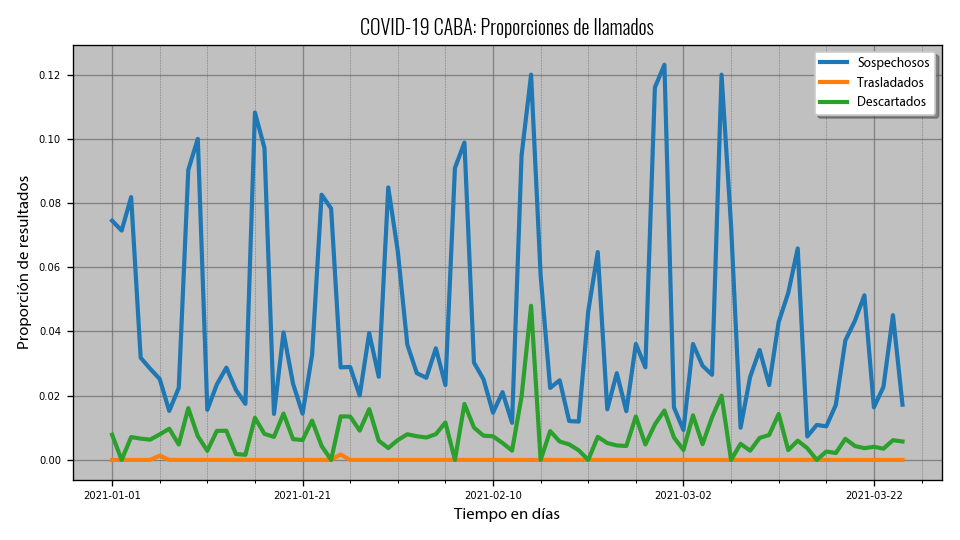
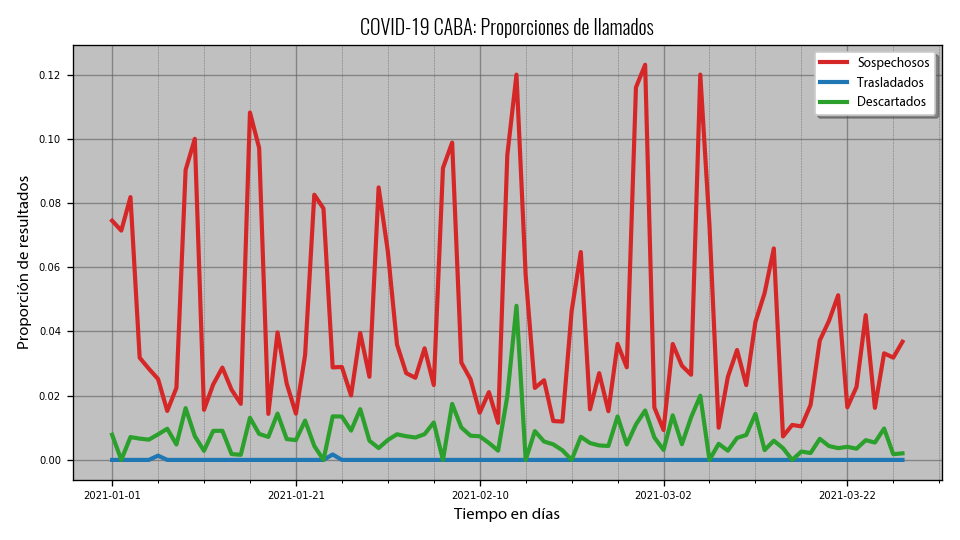
Updating charts...

diff --git a/p_emergencycalls.py b/p_emergencycalls.py
@@ -13,33 +13,39 @@ def plot_total_calls():
 	print("-- Plotting total calls...", end="\n")
 	f = figure(num=None, figsize=(cc.w, cc.h), dpi=cc.image_resolution, facecolor=cc.background_figure, edgecolor='k')
 	chart_texts = get_calls_ratios_texts("total_calls");
-	calls_data["COVID_LLAMADOS"][cc.start_date:].plot(kind='line', label=chart_texts[3], linewidth=2.5)
-	calls_data["CASOS_SOSPECHOSOS"][cc.start_date:].plot(kind='line', label=chart_texts[4], linewidth=2.5)
-	calls_data["CASOS_DERIVADOS"][cc.start_date:].plot(kind='line', label=chart_texts[5], linewidth=2.5)
+	total = calls_data["COVID_LLAMADOS"][cc.start_date:].plot(kind='line', label=chart_texts[3], color=cc.colors[0], linewidth=2.5)
+	cc.x_grid_and_ticks(1, 3)
 	cc.build_texts(chart_texts[0], chart_texts[1], chart_texts[2])
-	cc.build_legend()
-	cc.grid_and_ticks(1, 3)
+	other = total.twinx()
+	other = calls_data["CASOS_SOSPECHOSOS"][cc.start_date:].plot(kind='line', label=chart_texts[4], color=cc.colors[1], linewidth=2.5)
+	other = calls_data["CASOS_DERIVADOS"][cc.start_date:].plot(kind='line', label=chart_texts[5], color=cc.colors[2], linewidth=2.5)
+	cc.x_grid_and_ticks(1, 3)
+	cc.build_texts(chart_texts[0], chart_texts[1], chart_texts[2])
+	cc.build_legends(total, other)
 	cc.save_plot("totalcalls", f, "C")
 
 def plot_total_calls_avg():
 	print("-- Plotting total calls...", end="\n")
 	f = figure(num=None, figsize=(cc.w, cc.h), dpi=cc.image_resolution, facecolor=cc.background_figure, edgecolor='k')
 	chart_texts = get_calls_ratios_texts("total_calls");
-	calls_data["LLAMADOSAVG"][cc.start_date:].plot(kind='line', label=chart_texts[3], linewidth=2.5)
-	calls_data["SOSPECHOSOSAVG"][cc.start_date:].plot(kind='line', label=chart_texts[4], linewidth=2.5)
-	calls_data["DERIVADOSAVG"][cc.start_date:].plot(kind='line', label=chart_texts[5], linewidth=2.5)
+	total = calls_data["LLAMADOSAVG"][cc.start_date:].plot(kind='line', label=chart_texts[3], color=cc.colors[0], linewidth=2.5)
+	cc.x_grid_and_ticks(1, 3)
 	cc.build_texts(chart_texts[0], chart_texts[1], chart_texts[2])
-	cc.build_legend()
-	cc.grid_and_ticks(1, 3)
+	other = total.twinx()
+	other = calls_data["SOSPECHOSOSAVG"][cc.start_date:].plot(kind='line', label=chart_texts[4], color=cc.colors[1], linewidth=2.5)
+	other = calls_data["DERIVADOSAVG"][cc.start_date:].plot(kind='line', label=chart_texts[5], color=cc.colors[2], linewidth=2.5)
+	cc.x_grid_and_ticks(1, 3)
+	cc.build_texts(chart_texts[0], chart_texts[1], chart_texts[2])
+	cc.build_legends(total, other)
 	cc.save_plot("totalcallsavg", f, "C")
 
 def plot_calls_ratios():
 	print("-- Plotting calls ratios...", end="\n")
 	f = figure(num=None, figsize=(cc.w, cc.h), dpi=cc.image_resolution, facecolor=cc.background_figure, edgecolor='k')
 	chart_texts = get_calls_ratios_texts("calls_ratios");
-	calls_data["%SOSPECHOSOS"][cc.start_date:].plot(kind='line', label=chart_texts[3], linewidth=2.5)
-	calls_data["%TRASLADADOS"][cc.start_date:].plot(kind='line', label=chart_texts[4], linewidth=2.5)
-	calls_data["%DERIVADOS"][cc.start_date:].plot(kind='line', label=chart_texts[5], linewidth=2.5)
+	calls_data["%SOSPECHOSOS"][cc.start_date:].plot(kind='line', label=chart_texts[3], color=cc.colors[0], linewidth=2.5)
+	calls_data["%TRASLADADOS"][cc.start_date:].plot(kind='line', label=chart_texts[4], color=cc.colors[1], linewidth=2.5)
+	calls_data["%DERIVADOS"][cc.start_date:].plot(kind='line', label=chart_texts[5], color=cc.colors[2], linewidth=2.5)
 	cc.build_texts(chart_texts[0], chart_texts[1], chart_texts[2])
 	cc.build_legend()
 	cc.grid_and_ticks(1, 3)
@@ -49,9 +55,9 @@ def plot_calls_ratios_avg():
 	print("-- Plotting calls ratios...", end="\n")
 	f = figure(num=None, figsize=(cc.w, cc.h), dpi=cc.image_resolution, facecolor=cc.background_figure, edgecolor='k')
 	chart_texts = get_calls_ratios_texts("calls_ratios");
-	calls_data["%SOSPECHOSOSAVG"][cc.start_date:].plot(kind='line', label=chart_texts[3], linewidth=2.5)
-	calls_data["%TRASLADADOSAVG"][cc.start_date:].plot(kind='line', label=chart_texts[4], linewidth=2.5)
-	calls_data["%DERIVADOSAVG"][cc.start_date:].plot(kind='line', label=chart_texts[5], linewidth=2.5)
+	calls_data["%SOSPECHOSOSAVG"][cc.start_date:].plot(kind='line', label=chart_texts[3], color=cc.colors[0], linewidth=2.5)
+	calls_data["%TRASLADADOSAVG"][cc.start_date:].plot(kind='line', label=chart_texts[4], color=cc.colors[1], linewidth=2.5)
+	calls_data["%DERIVADOSAVG"][cc.start_date:].plot(kind='line', label=chart_texts[5], color=cc.colors[2], linewidth=2.5)
 	cc.build_texts(chart_texts[0], chart_texts[1], chart_texts[2])
 	cc.build_legend()
 	cc.grid_and_ticks(1, 3)

diff --git a/p_vaccinations.py b/p_vaccinations.py
@@ -11,9 +11,9 @@ def plot_total_vac_by_sex():
 	print("-- Plotting total vaccinations by sex...", end="\n")
 	f = figure(num=None, figsize=(cc.w, cc.h), dpi=cc.image_resolution, facecolor=cc.background_figure, edgecolor='k')
 	chart_texts = get_chart_texts("total_by_sex")
-	cum_age_sex["TotalM"][cc.start_date:].plot(kind='line', label=chart_texts[3], linewidth=2.5)
-	cum_age_sex["TotalF"][cc.start_date:].plot(kind='line', label=chart_texts[4], linewidth=2.5)
-	cum_age_sex["Total"][cc.start_date:].plot(kind='line', label=chart_texts[5], linewidth=2.5)
+	cum_age_sex["TotalM"][cc.start_date:].plot(kind='line', label=chart_texts[3], color=cc.colors[0], linewidth=2.5)
+	cum_age_sex["TotalF"][cc.start_date:].plot(kind='line', label=chart_texts[4], color=cc.colors[1], linewidth=2.5)
+	cum_age_sex["Total"][cc.start_date:].plot(kind='line', label=chart_texts[5], color=cc.colors[2], linewidth=2.5)
 	cc.build_texts(chart_texts[0], chart_texts[1], chart_texts[2])
 	cc.build_legend()
 	cc.grid_and_ticks(1, 3)
@@ -25,8 +25,8 @@ def plot_total_vac_by_dose():
 	print("-- Plotting total vaccinations by dose...", end="\n")
 	f = figure(num=None, figsize=(cc.w, cc.h), dpi=cc.image_resolution, facecolor=cc.background_figure, edgecolor='k')
 	chart_texts = get_chart_texts("total_by_dose")
-	cum_age_dose["TotalA"][cc.start_date:].plot(kind='line', label=chart_texts[3], linewidth=2.5)
-	cum_age_dose["TotalB"][cc.start_date:].plot(kind='line', label=chart_texts[4], linewidth=2.5)
+	cum_age_dose["TotalA"][cc.start_date:].plot(kind='line', label=chart_texts[3], color=cc.colors[0], linewidth=2.5)
+	cum_age_dose["TotalB"][cc.start_date:].plot(kind='line', label=chart_texts[4], color=cc.colors[1], linewidth=2.5)
 	cc.build_texts(chart_texts[0], chart_texts[1], chart_texts[2])
 	cc.build_legend()
 	cc.grid_and_ticks(1, 3)
@@ -39,7 +39,7 @@ def plot_doses_by_age():
 	f = figure(num=None, figsize=(cc.w, cc.h), dpi=cc.image_resolution, facecolor=cc.background_figure, edgecolor='k')
 	chart_texts = get_chart_texts("by_age")
 	for i in range(len(age_groups)):
-		age_dose[age_groups[i]][cc.start_date:].plot(kind='line', label=age_groups[i], linewidth=2.5)
+		age_dose[age_groups[i]][cc.start_date:].plot(kind='line', label=age_groups[i], color=cc.colors[i], linewidth=2.5)
 	cc.build_texts(chart_texts[0], chart_texts[1], chart_texts[2])
 	cc.build_legend()
 	cc.grid_and_ticks(1, 3)
@@ -52,7 +52,7 @@ def plot_doses_by_age_avg():
 	f = figure(num=None, figsize=(cc.w, cc.h), dpi=cc.image_resolution, facecolor=cc.background_figure, edgecolor='k')
 	chart_texts = get_chart_texts("by_age_avg")
 	for i in range(len(age_groups)):
-		age_dose_avg[age_groups[i]][cc.start_date:].plot(kind='line', label=age_groups[i], linewidth=2.5)
+		age_dose_avg[age_groups[i]][cc.start_date:].plot(kind='line', label=age_groups[i], color=cc.colors[i], linewidth=2.5)
 	cc.build_texts(chart_texts[0], chart_texts[1], chart_texts[2])
 	cc.build_legend()
 	cc.grid_and_ticks(1, 3)
@@ -65,7 +65,7 @@ def plot_doses_by_vac_avg():
 	f = figure(num=None, figsize=(cc.w, cc.h), dpi=cc.image_resolution, facecolor=cc.background_figure, edgecolor='k')
 	chart_texts = get_chart_texts("by_vac_avg")
 	for i in range(len(vaccines)):
-		vac_dose_avg[vaccines[i]][cc.start_date:].plot(kind='line', label=vaccines[i], linewidth=2.5)
+		vac_dose_avg[vaccines[i]][cc.start_date:].plot(kind='line', label=vaccines[i], color=cc.colors[i], linewidth=2.5)
 	cc.build_texts(chart_texts[0], chart_texts[1], chart_texts[2])
 	cc.build_legend()
 	cc.grid_and_ticks(1, 3)

diff --git a/chart_config.py b/chart_config.py
@@ -13,6 +13,8 @@ background_plot = "silver" #Default background color for charts
 background_figure = "white" #Default background color for figures
 major_grid_color = "dimgrey" #Default colors for grids...
 minor_grid_color = "dimgray"
+colors = ["tab:red", "tab:blue", "tab:green", "limegreen", "orange", "indianred", "teal", "darkslategray", \
+			"mediumseagreen", "orangered", "goldenrod", "dimgrey", "whitesmoke"]
 alphaMGC = 0.7
 alphamGC = 0.9
 image_resolution = 120
@@ -39,6 +41,15 @@ def grid_and_ticks(yMax, ticksinterval):
 	plt.yticks(np.arange(0, yMax, ticksinterval))
 	plt.gca().set_facecolor(background_plot)
 
+def x_grid_and_ticks(yMax, ticksinterval):
+	plt.grid(which='both', axis='x')
+	plt.minorticks_on()
+	plt.grid(True, "major", "x", ls="-", lw=0.8, c=major_grid_color, alpha=alphaMGC)
+	plt.grid(True, "minor", "x", ls="--", lw=0.3, c=minor_grid_color, alpha=alphamGC)
+	plt.xticks(fontsize=6)
+	plt.yticks(fontsize=6)
+	plt.gca().set_facecolor(background_plot)
+
 def ticks_locator(weekInterval):
 	plt.gca().xaxis.set_minor_locator(tk.AutoMinorLocator(7))
 	plt.gca().xaxis.set_major_locator(mdates.WeekdayLocator(interval = weekInterval))
@@ -53,3 +64,9 @@ def build_texts(title, x_axis, y_axis):
 def build_legend():
 	plt.legend(loc=0, shadow = True, facecolor = background_figure,
 			prop={'family' : legend_font, 'size' : legend_text_size})
+
+def build_legends(axis_a, axis_b):
+	a, al = axis_a.get_legend_handles_labels()
+	b, bl = axis_b.get_legend_handles_labels()
+	axis_b.legend(a + b, al + bl, loc=0, shadow = True, facecolor = background_figure,
+				prop={'family' : legend_font, 'size' : legend_text_size})
